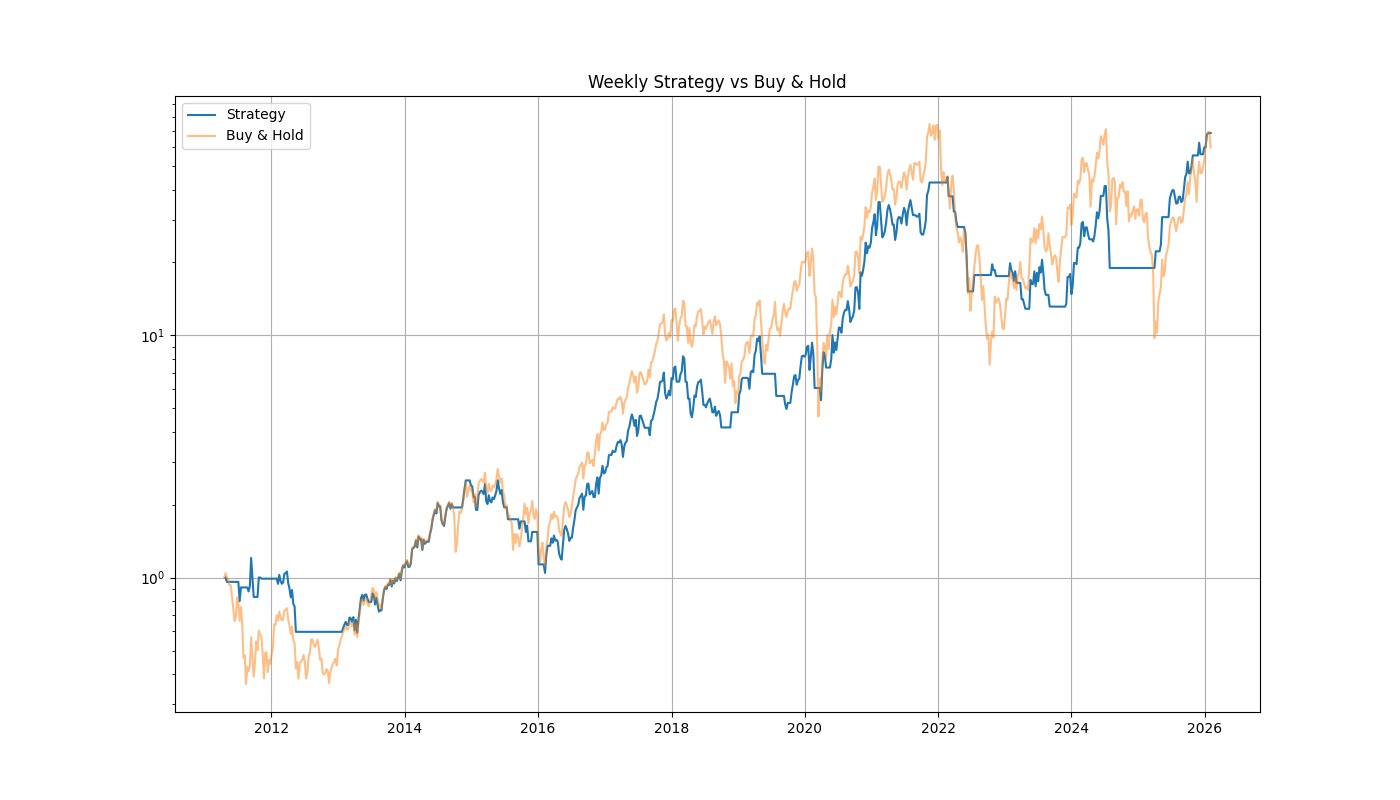
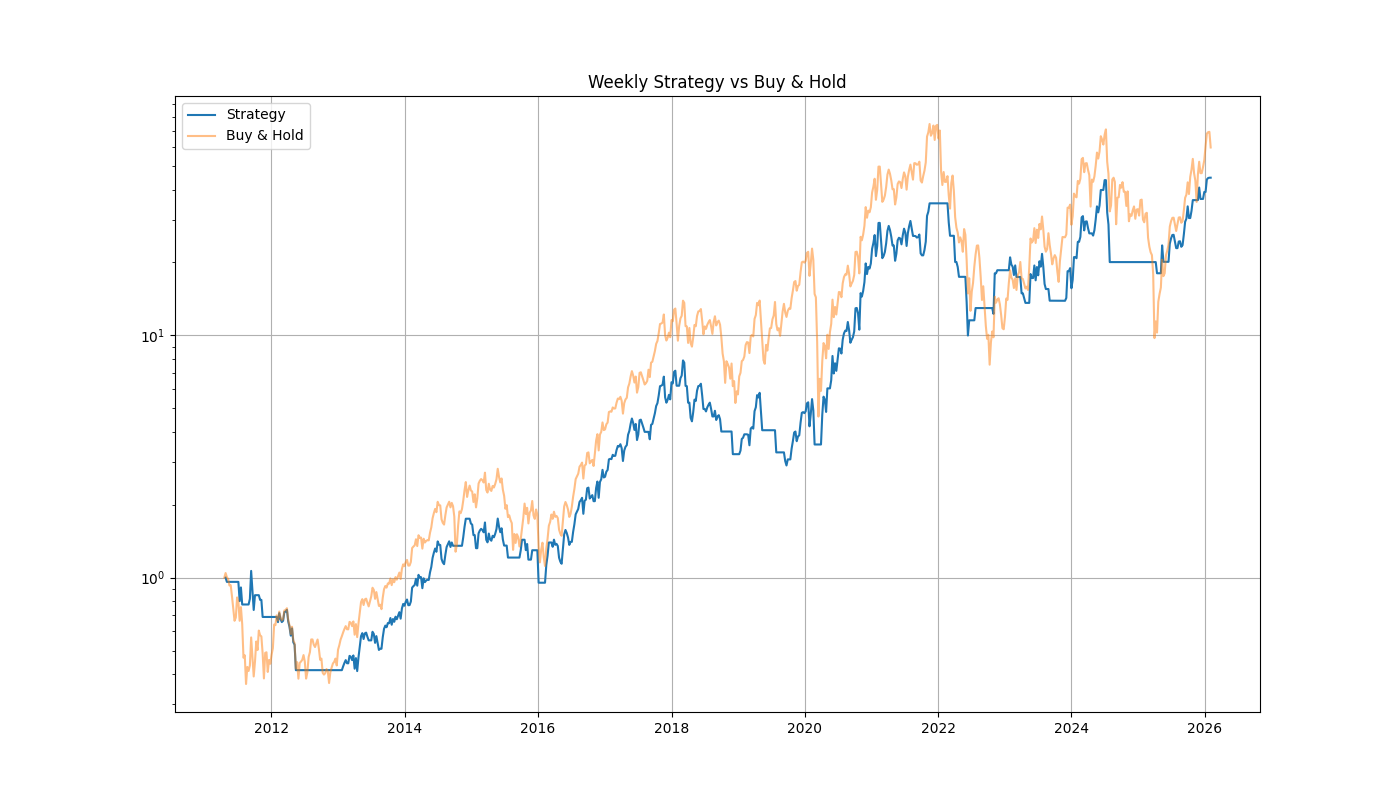
Backtest PMax + Vince/Williams (Daily Logic) on SOX/SOXL from 2016-07-22

diff --git a/backtest_pmax_vince_williams.py b/backtest_pmax_vince_williams.py
@@ -14,16 +14,18 @@ SOX_TICKER = '^SOX'
 SOXL_TICKER = 'SOXL'
 PMAX_LENGTH = 10
 PMAX_MULTIPLIER = 3
-CLIMAX_THRESHOLD_WEEKLY = 13.0 # Optimized to catch 2016-01-04
-BLOODBATH_THRESHOLD_WEEKLY = 4.0 # Should I adjust this? User asked to adjust Climax. Bloodbath usually 4%.
-# If Weekly Climax is 13%, Daily Bloodbath (4%) is much lower.
-# Weekly New Lows Aggregation (Max) means if ANY day > 4%, it's Bloodbath?
-# Let's keep 4% for Bloodbath (defensive) as it's standard.
-ENTRY_LAG_WEEKS = 4 # Approx 22 trading days
+
+# DAILY LOGIC PARAMETERS
+CLIMAX_THRESHOLD_DAILY = 20.0
+BLOODBATH_THRESHOLD_DAILY = 4.0
+ENTRY_LAG_DAYS = 22
+
+# Backtest Start Date
+START_DATE_STR = '2016-07-22'
 
 def load_breadth_data():
     if not os.path.exists(BREADTH_FILE):
-        print(f"Error: {BREADTH_FILE} not found. Run market_breadth_generator.py first.")
+        print(f"Error: {BREADTH_FILE} not found.")
         return None
 
     df = pd.read_csv(BREADTH_FILE)
@@ -39,9 +41,10 @@ def load_breadth_data():
     df.sort_index(inplace=True)
     return df
 
-def resample_to_weekly(df, method='last'):
+def resample_to_weekly(df):
     """
-    Resamples daily data to weekly bars (Monday start).
+    Resamples daily data to weekly bars (Friday Close).
+    Used for PMax calculation.
     """
     logic = {
         'Open': 'first',
@@ -51,9 +54,7 @@ def resample_to_weekly(df, method='last'):
         'Volume': 'sum'
     }
     logic = {k: v for k, v in logic.items() if k in df.columns}
-
-    # Resample W-MON, label='left' puts the date at the start of the week (Monday)
-    df_w = df.resample('W-MON', closed='left', label='left').agg(logic).dropna()
+    df_w = df.resample('W-FRI').agg(logic).dropna()
     return df_w
 
 def calculate_pmax(df, length=10, multiplier=3):
@@ -62,22 +63,35 @@ def calculate_pmax(df, length=10, multiplier=3):
         return pd.Series(0, index=df.index), pd.Series(0, index=df.index)
 
     col_dir = [c for c in st.columns if c.startswith("SUPERTd")][0]
-    col_val = [c for c in st.columns if c.startswith("SUPERT_")][0]
-
-    return st[col_dir], st[col_val]
+    return st[col_dir], st[col_dir] # Return Dir twice as val not needed for logic
 
 def run_backtest():
-    # 1. Load Data
+    # 1. Load Breadth (Daily)
     print("Loading Market Breadth Data...")
     breadth_df = load_breadth_data()
     if breadth_df is None: return
 
-    print("Fetching ^SOX and SOXL Data...")
-    start_date = breadth_df.index[0]
-    end_date = breadth_df.index[-1]
+    # Filter Start Date
+    start_dt = pd.to_datetime(START_DATE_STR)
 
-    sox = yf.download(SOX_TICKER, start=start_date, end=end_date, progress=False)
-    soxl = yf.download(SOXL_TICKER, start=start_date, end=end_date, progress=False)
+    # 2. Process Daily Breadth Signals
+    if 'New_Lows_Ratio' not in breadth_df.columns:
+        breadth_df['New_Lows_Ratio'] = (breadth_df['New_Lows'] / breadth_df['Total_Issues']) * 100
+
+    # Signals
+    breadth_df['Is_Climax'] = breadth_df['New_Lows_Ratio'] >= CLIMAX_THRESHOLD_DAILY
+    breadth_df['Is_Bloodbath'] = breadth_df['New_Lows_Ratio'] >= BLOODBATH_THRESHOLD_DAILY
+
+    # Entry Signal (22 Days Lag)
+    breadth_df['Climax_Entry'] = breadth_df['Is_Climax'].shift(ENTRY_LAG_DAYS).fillna(False)
+
+    # 3. Load Price Data
+    print("Fetching ^SOX and SOXL Data...")
+    # Fetch ample history to cover start date logic
+    fetch_start = start_dt - timedelta(days=365)
+
+    sox = yf.download(SOX_TICKER, start=fetch_start, progress=False)
+    soxl = yf.download(SOXL_TICKER, start=fetch_start, progress=False)
 
     if isinstance(sox.columns, pd.MultiIndex): sox.columns = sox.columns.get_level_values(0)
     if isinstance(soxl.columns, pd.MultiIndex): soxl.columns = soxl.columns.get_level_values(0)
@@ -86,74 +100,77 @@ def run_backtest():
     if soxl.index.tz is not None: soxl.index = soxl.index.tz_localize(None)
     if breadth_df.index.tz is not None: breadth_df.index = breadth_df.index.tz_localize(None)
 
-    # 2. Resample Everything to Weekly (Monday)
-    # Breadth Logic: 'New_Lows_Ratio': 'max' (If any day in week was Climax, week is Climax)
-    if 'New_Lows_Ratio' not in breadth_df.columns:
-        breadth_df['New_Lows_Ratio'] = (breadth_df['New_Lows'] / breadth_df['Total_Issues']) * 100
+    # 4. Integrate Weekly PMax with Daily Signals
+    # We run the simulation on DAILY bars to capture the exact entry day.
+    # But we check PMax status from Weekly bars.
 
-    breadth_w = breadth_df.resample('W-MON', closed='left', label='left').agg({
-        'New_Lows_Ratio': 'max'
-    })
-
+    # Calculate Weekly PMax
     sox_w = resample_to_weekly(sox)
-    soxl_w = resample_to_weekly(soxl)
+    pmax_dir_w, _ = calculate_pmax(sox_w)
+    sox_w['PMax_Dir'] = pmax_dir_w
 
-    # 3. Calculate Indicators (Weekly)
+    # Resample PMax back to Daily (Forward Fill)
+    # This simulates "Weekly state persists through the next week"
+    pmax_daily = sox_w['PMax_Dir'].resample('D').ffill()
 
-    # PMax
-    pmax_dir, pmax_val = calculate_pmax(sox_w)
-    sox_w['PMax_Dir'] = pmax_dir
+    # Merge everything into a Daily Simulation DF
+    df = pd.DataFrame(index=soxl.index)
+    df = df.join(soxl[['Open', 'Close']], how='inner')
+    df = df.join(breadth_df[['New_Lows_Ratio', 'Climax_Entry', 'Is_Bloodbath']], how='left')
+    df = df.join(pmax_daily.rename('PMax_Dir'), how='left')
 
-    # Breadth Signals
-    breadth_w['Is_Climax'] = breadth_w['New_Lows_Ratio'] >= CLIMAX_THRESHOLD_WEEKLY
-    breadth_w['Is_Bloodbath'] = breadth_w['New_Lows_Ratio'] >= BLOODBATH_THRESHOLD_WEEKLY
+    # Filter by requested Start Date
+    df = df[df.index >= start_dt].copy()
+    df.ffill(inplace=True) # Fill gaps if any
+    df.dropna(inplace=True) # Drop initial NaNs if PMax not ready
 
-    # Entry Signal (Shift 4 Weeks)
-    breadth_w['Climax_Entry'] = breadth_w['Is_Climax'].shift(ENTRY_LAG_WEEKS).fillna(False)
-
-    # Merge
-    # Use sox_w index as base
-    df = pd.concat([sox_w, breadth_w], axis=1).dropna()
-
-    # Align SOXL
-    # We need SOXL Open/Close for trading
-    # Assuming soxl_w index aligns (Mon-Mon)
-    # Join
-    df = df.join(soxl_w[['Open', 'Close']], rsuffix='_SOXL')
-    df.rename(columns={'Open_SOXL': 'SOXL_Open', 'Close_SOXL': 'SOXL_Close'}, inplace=True)
-    df.dropna(inplace=True)
-
-    # 4. Simulation
-
+    # 5. Simulation Loop
     pos = 0
     equity = 1.0
     equity_curve = [1.0]
     log_data = []
 
+    # Initial PMax State might be NaN if start date is too early?
+    # We filtered, so should be fine.
+
+    # Logic:
+    # 1. Climax Entry (True) -> Force Buy.
+    # 2. Bloodbath (True) -> Sell/Cash.
+    # 3. PMax (1) -> Buy.
+    # 4. PMax (-1) -> Sell.
+    # Priority: Climax Entry > Bloodbath > PMax.
+
     for i in range(1, len(df)):
         date = df.index[i]
-        price_soxl = df['SOXL_Close'].iloc[i]
-        prev_price_soxl = df['SOXL_Close'].iloc[i-1]
+        price = df['Close'].iloc[i]
+        prev_price = df['Close'].iloc[i-1]
 
-        pmax_dir = df['PMax_Dir'].iloc[i]
         climax_entry = df['Climax_Entry'].iloc[i]
         is_bloodbath = df['Is_Bloodbath'].iloc[i]
+        pmax_dir = df['PMax_Dir'].iloc[i]
 
-        # Signal Logic
+        # Signal
         signal = 0
 
+        # Note: If Climax Entry happens ON a Bloodbath day?
+        # Entry logic usually assumes "panic is over" (22 days later).
+        # If 22 days later is ALSO a Bloodbath day (New lows > 4%), it's a double bottom or crash continuation.
+        # Strict Vince rule: "Sidestep if > 4%".
+        # But "Re-entry rule" is "22 days after > 20%".
+        # We assume Re-entry overrides because it's a specific setup.
+
         if climax_entry:
-            signal = 1 # Force Buy
+            signal = 1
         elif is_bloodbath:
-            signal = 0 # Step Aside
+            signal = 0
         elif pmax_dir == 1:
             signal = 1
         else:
             signal = 0
 
-        # Execute (from prev close to this close)
+        # Execute
         prev_pos = 0 if i==1 else log_data[-1]['Position']
-        ret = (price_soxl - prev_price_soxl) / prev_price_soxl
+        ret = (price - prev_price) / prev_price
 
         if prev_pos == 1:
             equity *= (1 + ret)
@@ -162,41 +179,41 @@ def run_backtest():
 
         log_data.append({
             'Date': date,
-            'Price': price_soxl,
+            'Price': price,
             'Position': signal,
-            'Equity': equity,
-            'Climax': climax_entry,
-            'Bloodbath': is_bloodbath
+            'Equity': equity
         })
 
+    # Results
     results_df = pd.DataFrame(log_data)
+    if results_df.empty:
+        print("No data in range.")
+        return
+
     results_df.set_index('Date', inplace=True)
 
     # Buy & Hold
-    soxl_bh = (df['SOXL_Close'] / df['SOXL_Close'].iloc[0])
+    bh_equity = (df['Close'] / df['Close'].iloc[0]).iloc[1:]
 
-    # Reporting
-    total_ret_strat = (results_df['Equity'].iloc[-1] - 1) * 100
-    total_ret_bh = (soxl_bh.iloc[-1] - 1) * 100
+    total_ret = (results_df['Equity'].iloc[-1] - 1) * 100
+    bh_ret = (bh_equity.iloc[-1] - 1) * 100
 
     print("\n" + "="*50)
-    print(f"BACKTEST RESULTS (Weekly PMax + Weekly Climax)")
-    print(f"Period: {df.index[0].date()} to {df.index[-1].date()}")
+    print(f"BACKTEST: Daily Logic (Start: {START_DATE_STR})")
     print("="*50)
-    print(f"Strategy Return: {total_ret_strat:.2f}%")
-    print(f"Buy & Hold     : {total_ret_bh:.2f}%")
+    print(f"Strategy Return: {total_ret:.2f}%")
+    print(f"Buy & Hold     : {bh_ret:.2f}%")
     print("="*50)
-    print(f"Climax Threshold (Weekly Max): {CLIMAX_THRESHOLD_WEEKLY}%")
 
-    # Plotting
-    plt.figure(figsize=(14, 8))
+    # Plot
+    plt.figure(figsize=(12,6))
     plt.plot(results_df.index, results_df['Equity'], label='Strategy')
-    plt.plot(soxl_bh.index, soxl_bh, label='Buy & Hold', alpha=0.5)
+    plt.plot(results_df.index, bh_equity, label='Buy & Hold', alpha=0.5)
+    plt.title(f'Daily Climax + Weekly PMax ({START_DATE_STR} - Present)')
     plt.yscale('log')
-    plt.title('Weekly Strategy vs Buy & Hold')
     plt.legend()
     plt.grid(True)
-    plt.savefig('pmax_vince_williams_weekly_result.png')
+    plt.savefig('pmax_daily_2016.png')
 
 if __name__ == "__main__":
     run_backtest()
